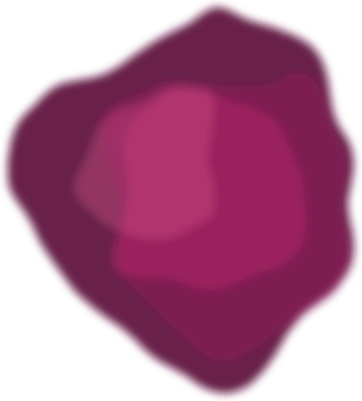
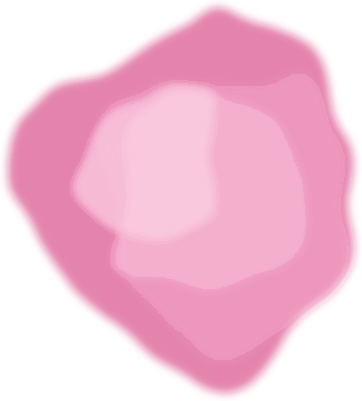
feat(ui): manchas de acuarela en rosa y celeste pastel
Recolorea las 6 manchas de la home (trust bar y grilla de productos) de bordo/petroleo a rosa pastel y celeste pastel, manteniendo textura y forma. Actualiza --blob-pink y --blob-blue, y agrega un filtro de brillo en modo oscuro para que el texto claro conserve contraste sobre el pastel.

Claude-Session: https://claude.ai/code/session_01DG15EYvHa4gFPNi2qHXEJw

diff --git a/src/app/globals.css b/src/app/globals.css
@@ -24,8 +24,10 @@
   --border-color: #F3DCE7;
   --border-color-strong: #E4BFD4;
 
-  --blob-pink: #B22368;
-  --blob-blue: #1C7690;
+  /* Manchas de acuarela decorativas: rosa pastel + celeste pastel.
+     Tonos suaves pero con cuerpo suficiente para leerse sobre --bg-page. */
+  --blob-pink: #F0A3C6;
+  --blob-blue: #96D0EC;
 
   --shadow-sm: 0 2px 8px rgba(36, 30, 40, 0.05);
   --shadow-md: 0 8px 24px rgba(36, 30, 40, 0.09);
@@ -1069,6 +1071,19 @@ button {
 .product-card-blob-5::before { background-image: url('/blobs/watercolor-pink-2.png'); }
 .product-card-blob-6::before { background-image: url('/blobs/watercolor-blue-3.png'); }
 
+/* Las manchas son pastel (pensadas para el fondo claro). En modo oscuro se
+   oscurecen con un filtro para que el texto claro de la card siga teniendo
+   contraste, en vez de quedar blanco sobre rosa/celeste claro. */
+@media (prefers-color-scheme: dark) {
+  :root:not([data-theme='light']) .product-card::before {
+    filter: brightness(0.42) saturate(1.35);
+  }
+}
+
+:root[data-theme='dark'] .product-card::before {
+  filter: brightness(0.42) saturate(1.35);
+}
+
 .product-card:hover {
   transform: translateY(-6px);
 }
@@ -1792,6 +1807,18 @@ button {
 
 .trust-bar-item:nth-child(4)::before {
   background-image: url('/blobs/watercolor-blue-1.png');
+}
+
+/* Mismo criterio que en las cards: en modo oscuro la mancha pastel se
+   oscurece para no comerse el texto claro. */
+@media (prefers-color-scheme: dark) {
+  :root:not([data-theme='light']) .trust-bar-item::before {
+    filter: brightness(0.42) saturate(1.35);
+  }
+}
+
+:root[data-theme='dark'] .trust-bar-item::before {
+  filter: brightness(0.42) saturate(1.35);
 }
 
 .trust-bar-icon {
